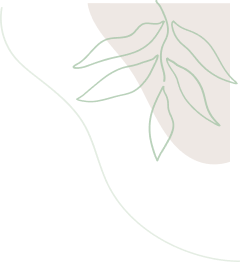
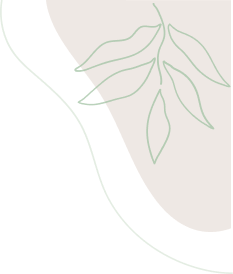
[FE] header right leaf 교체

diff --git a/front/src/index.css b/front/src/index.css
@@ -1,33 +1,34 @@
-@font-face{
-  font-family: 'Maplestory Bold';
-  src: url('styles/fonts/Maplestory_Bold.ttf');
-  font-family: 'Maplestory Light';
-  src: url('styles/fonts/Maplestory_Light.ttf');
-  font-family: 'Maplestory Bold';
-  src: url('styles/fonts/Maplestory_Bold.ttf');
-  font-family: 'Maplestory Bold';
-  src: url('styles/fonts/Maplestory_Bold.ttf');
+@font-face {
+  font-family: "Maplestory Bold";
+  src: url("styles/fonts/Maplestory_Bold.ttf");
+  font-family: "Maplestory Light";
+  src: url("styles/fonts/Maplestory_Light.ttf");
+  font-family: "Maplestory Bold";
+  src: url("styles/fonts/Maplestory_Bold.ttf");
+  font-family: "Maplestory Bold";
+  src: url("styles/fonts/Maplestory_Bold.ttf");
 }
 
 * {
   margin: 0;
   padding: 0;
   font-family: "Maplestory Light", "Maplestory Bold";
-  
 }
 
-html, body {
+html,
+body {
   width: 100%;
   height: 100%;
   font-size: 14px;
-  background-color: #F5EFEA;
+  background-color: #f5efea;
 }
 
 .App {
-  display: flex; 
-  min-height: 100vh; 
+  display: flex;
+  min-height: 100vh;
   flex-direction: column;
 }
 .main {
   flex: 1;
+  padding-top: 100px;
 }

diff --git a/front/src/components/componentStyle.js b/front/src/components/componentStyle.js
@@ -22,19 +22,25 @@ export const FooterBackground = styled.img`
 
 export const HeaderContainer = styled.div`
   width: 100%;
-  height: 80px;
+  height: 100px;
   display: flex;
   justify-content: space-between;
   align-items: center;
+  position: fixed;
+
   background-image: url(${img.leafLeftHeader}), url(${img.leafRightHeader});
   background-repeat: no-repeat;
   background-position: left, right;
-  background-size: auto 80px, auto 100px;
+  background-size: auto 100px, auto 100px;
+  background-color: #f5efea;
 `;
 
 export const LogoContainer = styled.div`
   position: absolute;
   left: 8%;
+  &:hover {
+    cursor: pointer;
+  }
 `;
 
 export const Navigation = styled.div`
